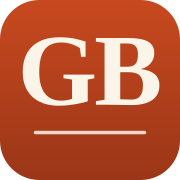
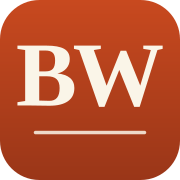
rebrand Gig Buddy → Batchwise
- Browser tab title and iOS web-app title set to Batchwise
- PWA manifest name + short_name updated; description tightened to a
  one-liner that matches the actual value prop ("real \$/hr, real \$/mile,
  real decline data")
- frontend package name renamed to batchwise-frontend
- icon.svg monogram changed from GB to BW; font-size dropped from 290 to
  260 and letter-spacing from -8 to -12 so the wider W stays inside the
  safe rounded-square area
- regenerated icon-192.png, icon-512.png, apple-touch-icon.png via
  npm run gen-icons

Changed region(s): [[0.0833, 0.1944, 0.9167, 0.6111]]

diff --git a/frontend/index.html b/frontend/index.html
@@ -5,8 +5,8 @@
     <meta name="viewport" content="width=device-width, initial-scale=1.0, viewport-fit=cover" />
     <meta name="apple-mobile-web-app-capable" content="yes" />
     <meta name="apple-mobile-web-app-status-bar-style" content="default" />
-    <meta name="apple-mobile-web-app-title" content="Gig Buddy" />
-    <title>Gig Buddy</title>
+    <meta name="apple-mobile-web-app-title" content="Batchwise" />
+    <title>Batchwise</title>
     <link rel="icon" type="image/svg+xml" href="/icon.svg" />
     <link rel="apple-touch-icon" href="/apple-touch-icon.png" />
   </head>

diff --git a/frontend/vite.config.js b/frontend/vite.config.js
@@ -11,9 +11,9 @@ export default defineConfig({
       registerType: 'autoUpdate',
       selfDestroying: true,
       manifest: {
-        name: 'Gig Buddy',
-        short_name: 'Gig Buddy',
-        description: 'Instacart batch tracker',
+        name: 'Batchwise',
+        short_name: 'Batchwise',
+        description: 'Instacart batch tracker — real $/hr, real $/mile, real decline data.',
         theme_color: '#b8401f',
         background_color: '#efe7d6',
         display: 'standalone',
